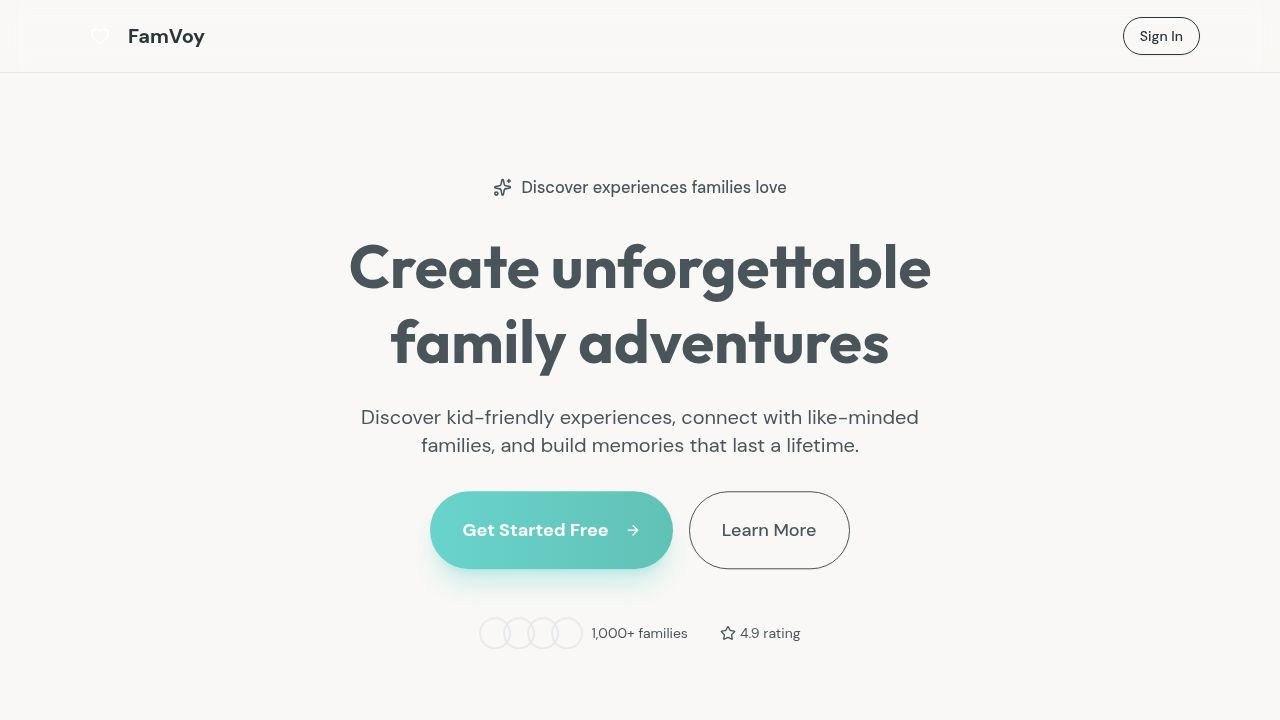
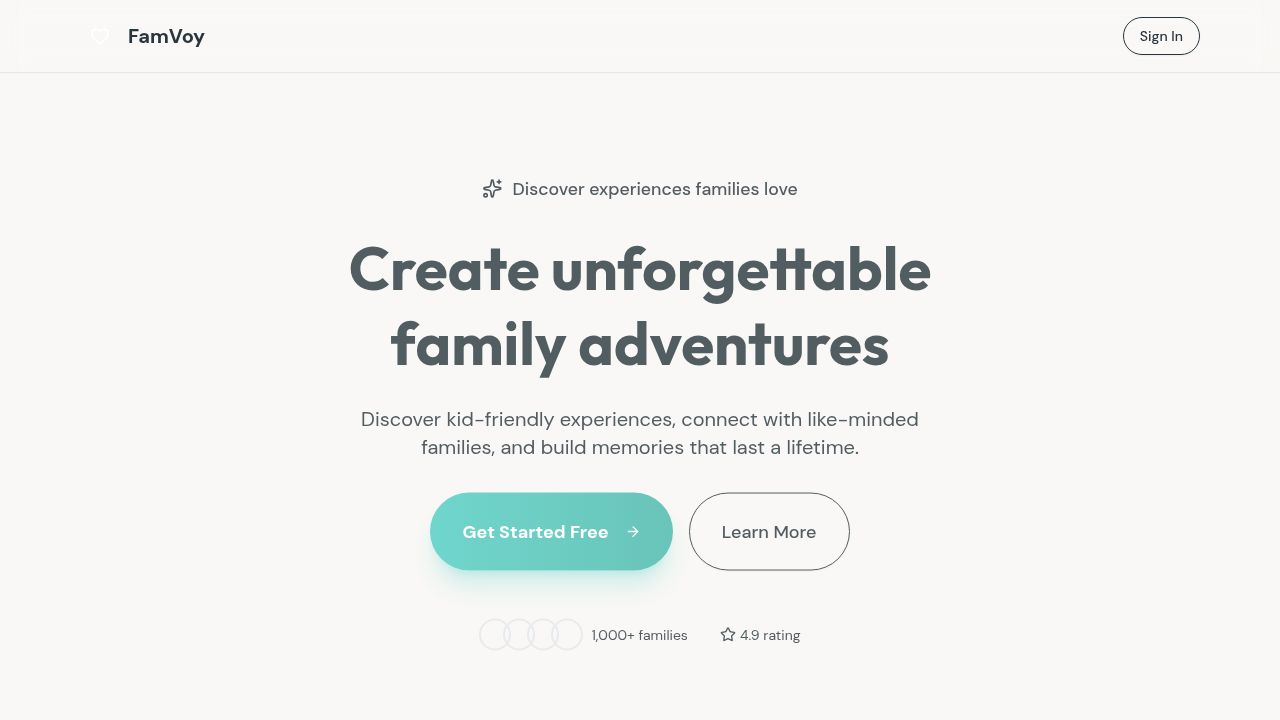
Show a floating action button only on the home tab
Conditionally render the FloatingActionButton component based on the current route, showing it only when the location is the home page ("/").

Replit-Commit-Author: Agent
Replit-Commit-Session-Id: 751525be-1727-48dc-8ebb-75245f1a353a
Replit-Commit-Checkpoint-Type: full_checkpoint
Replit-Commit-Event-Id: 23aaa931-5c6a-4dd1-b121-e22eda5c5321
Replit-Commit-Screenshot-Url: https://storage.googleapis.com/screenshot-production-us-central1/14243f29-e0d0-4621-9e96-7f69ba84efce/751525be-1727-48dc-8ebb-75245f1a353a/8YY5JfO
Replit-Helium-Checkpoint-Created: true

diff --git a/client/src/App.tsx b/client/src/App.tsx
@@ -107,7 +107,7 @@ function AuthenticatedRouter() {
               </Switch>
             </PullToRefresh>
           )}
-          <FloatingActionButton />
+          {location === "/" && <FloatingActionButton />}
           <BottomNav />
         </div>
       </div>
